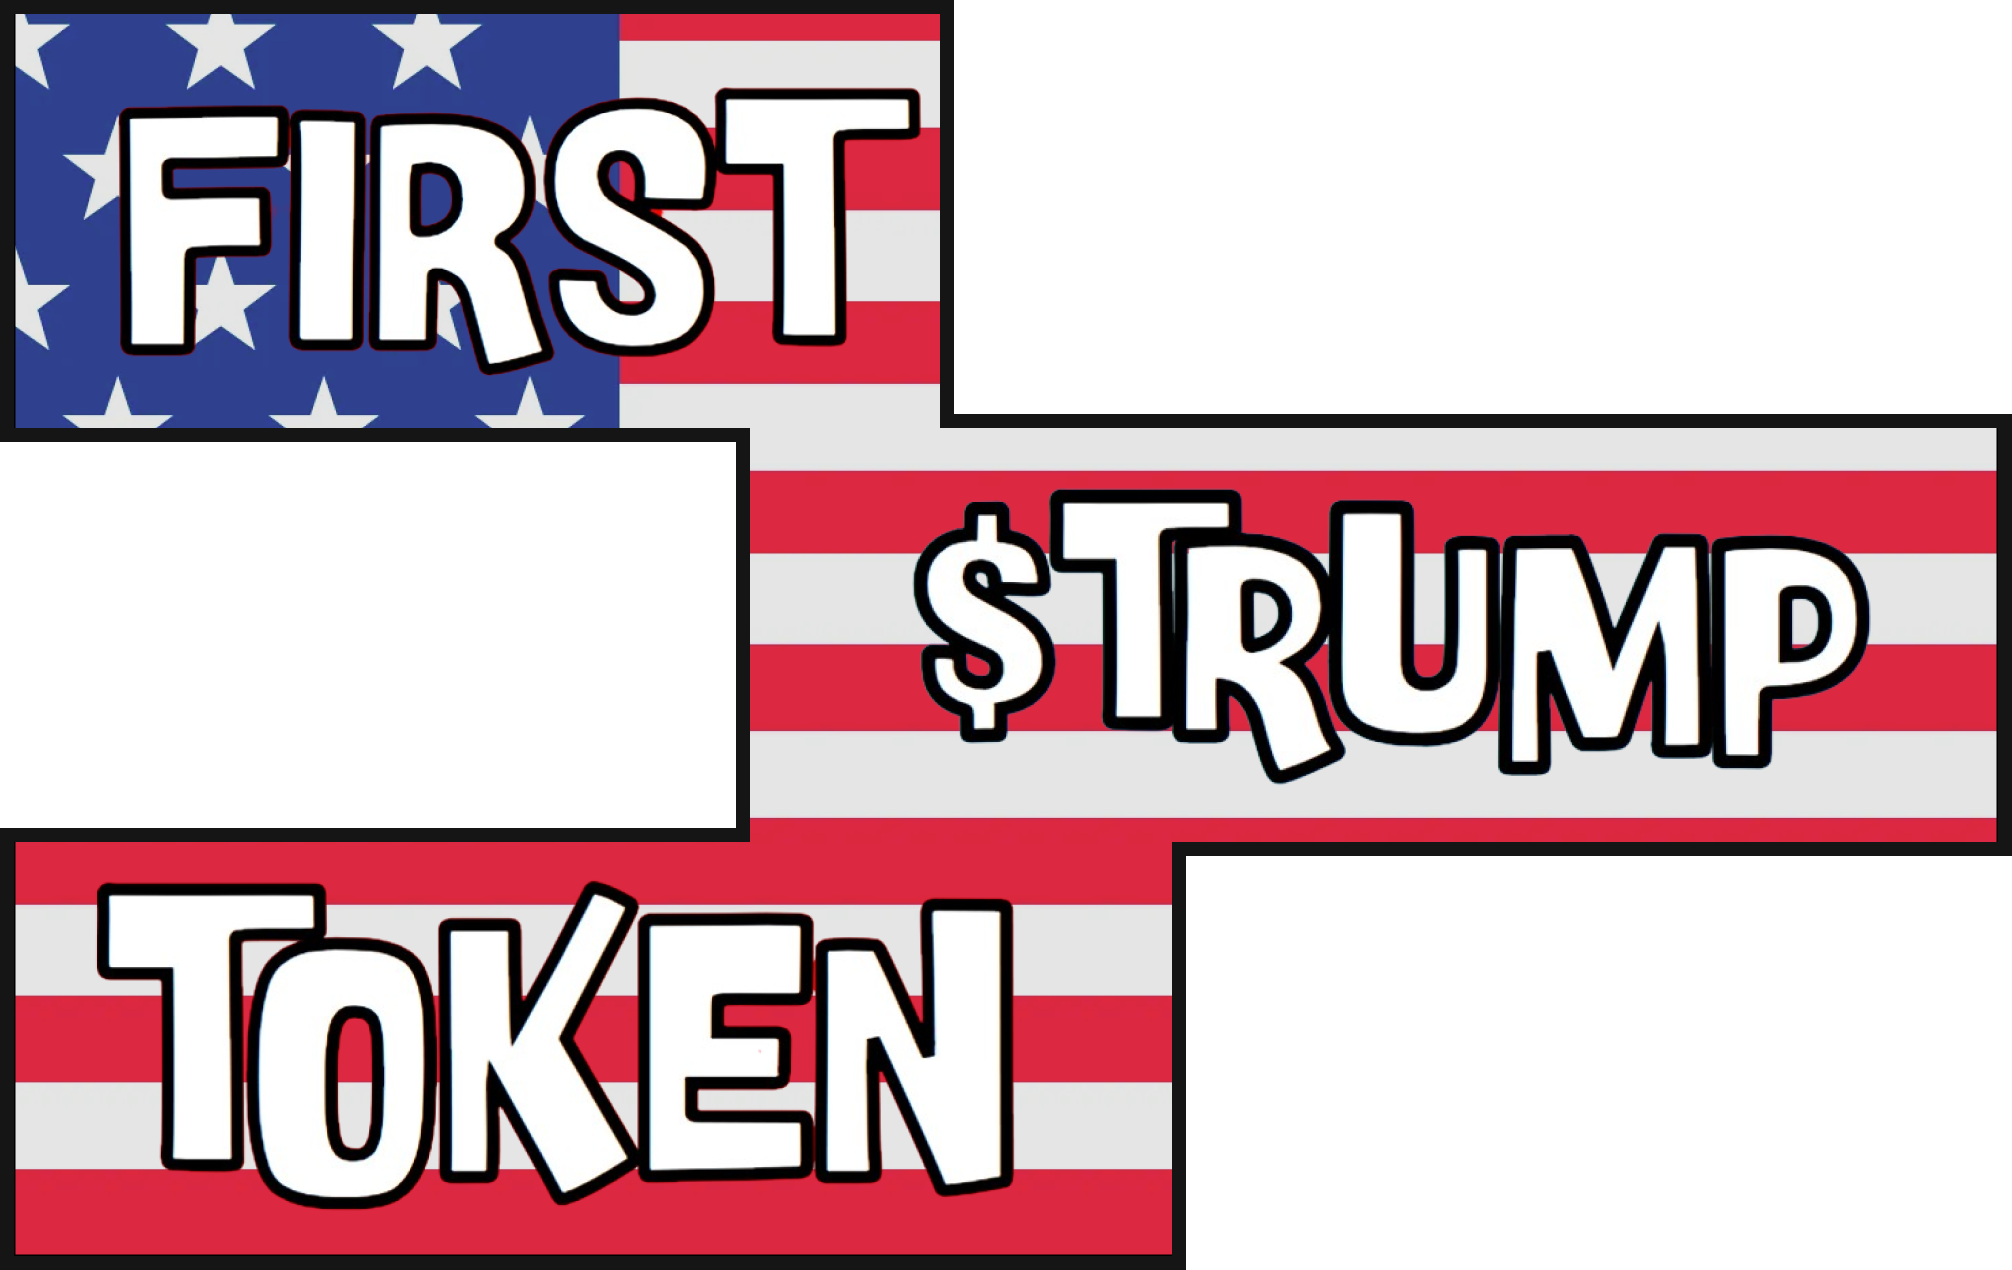
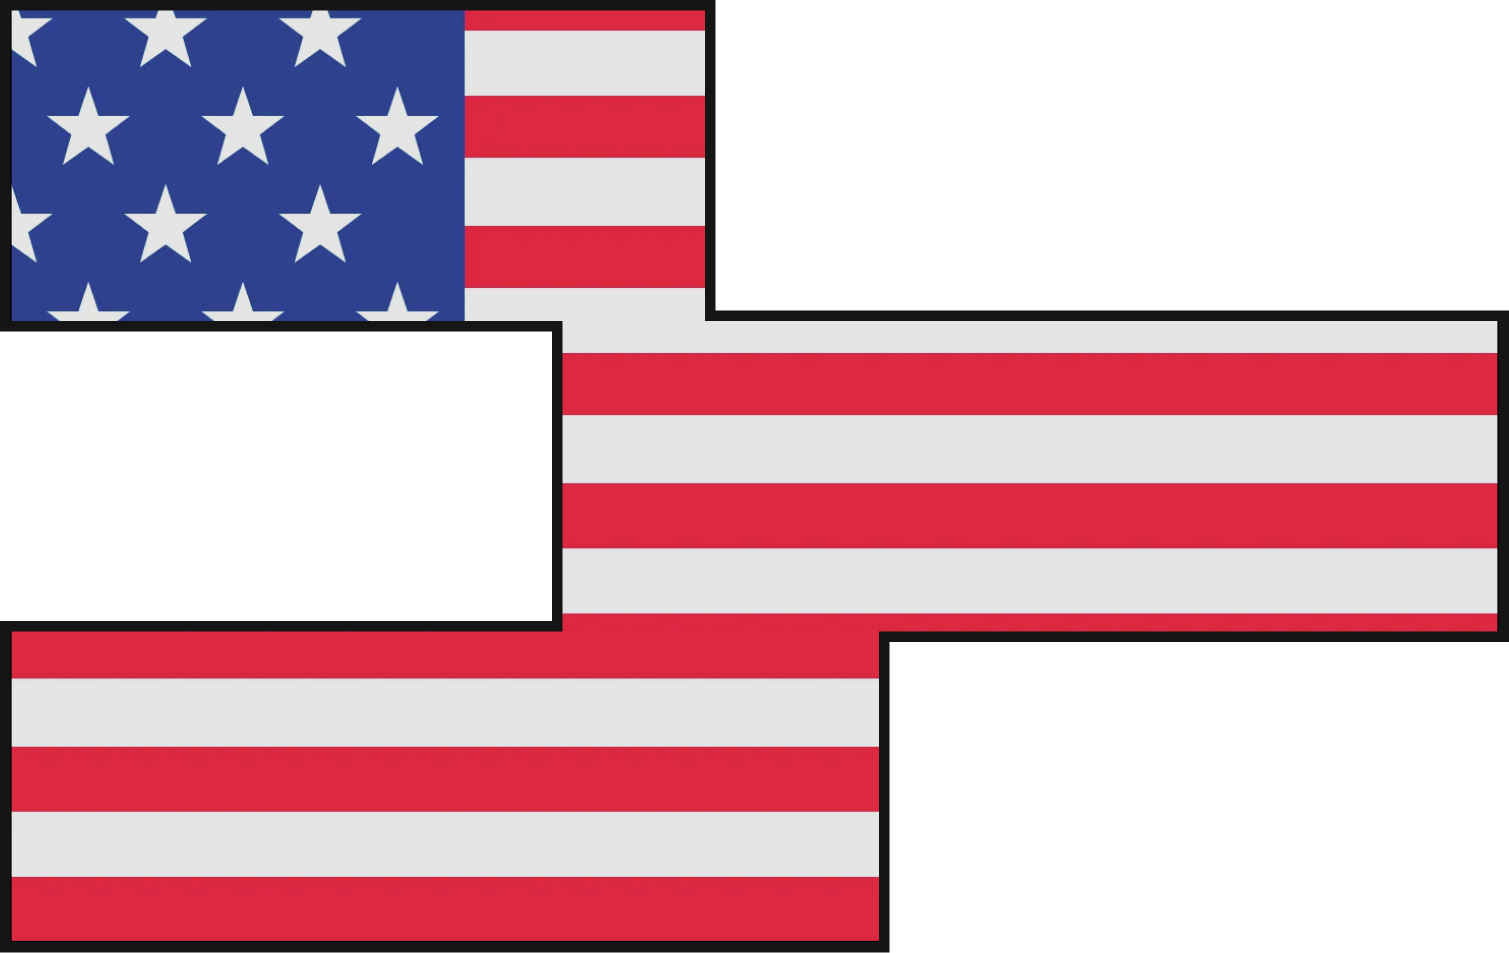
update

Changed region(s): [[0.0311, 0.6695, 0.5295, 0.9738], [0.4361, 0.3652, 0.9344, 0.639], [0.0311, 0.0609, 0.4672, 0.3043]]

diff --git a/index.html b/index.html
@@ -265,8 +265,9 @@
                         <div class="copied hidden absolute bg-[#1f921f] top-[-50px] h-[40px] w-[70px]  justify-center items-center ">
                             <span class="text-[.8rem] w-[95%] h-[90%] bg-green-500 flex justify-center items-center ink-free_font">copied</span>
                           </div>
-                          <input type="text" value=" 0x012....6e53" class="opacity-0 absolute contractInput">
-                        <p class="relative ca_text ink-free_font text-[15px] md:text-[20px] xl:text-[32px] min-[1700px]:text-[40px] z-[1]">Contract : 0x01....6e53</p>
+                          <input type="text" value=" 0000000000000000000000000" class="opacity-0 absolute contractInput">
+                        <p class="relative ca_text ink-free_font text-[15px] md:text-[20px] xl:text-[32px] min-[1700px]:text-[40px] z-[1]">Contract : 0x000000...dEaD
+                        </p>
                         <div class="icon ml-[.75rem] z-10">
                             <img src="./assets/images/copyIcon.svg" alt="" class="h-auto object-contain w-[20px] md:w-[25px] lg:w-[30px] min-[1700px]:w-[1vw]">
                         </div>
@@ -309,7 +310,7 @@
             <div class="bg_top content_about absolute  h-auto top-[62vw] xl:top-[40%] min-[1600px]:top-[45%] min-[2000px]:w-[50%] min-[2000px]:top-[53vw] z-[10] flex justify-center" data-aos="fade-up"
             data-aos-duration="1000"
             data-aos-delay="800">
-                <p class="text-white text-center tracking-[1px] w-[90%] md:w-[80%] xl:w-[985px] text-[19px] min-[500px]:text-[25px] md:text-[35px] xl:text-[40px]  min-[2500px]:w-[100%]  min-[2500px]:text-[2vw]">Yuge is the first Trump inspired cryptocurrency ever launched, has the first $TRUMP ticker ever used, and lives on the Ethereum blockchain. The token was deployed and launched on August 15th, 2020, predating any other Trump or Maga inspired tokens created, making it the oldest and most collectible Trump token in existence. Help us create a YUGE community so that we may make $TRUMP great again!</p>
+                <p class="text-white text-center tracking-[1px] w-[90%] md:w-[80%] xl:w-[985px] text-[19px] min-[500px]:text-[25px] md:text-[35px] xl:text-[40px]  min-[2500px]:w-[100%]  min-[2500px]:text-[2vw]">Yuge is the first Trump inspired cryptocurrency ever launched, has the first GOD BLESS AMERICA ticker ever used, and lives on the Ethereum blockchain. The token was deployed and launched on August 15th, 2020, predating any other Trump or Maga inspired tokens created, making it the oldest and most collectible Trump token in existence. Help us create a YUGE community so that we may make GOD BLESS AMERICA great again!</p>
  
             </div>
 
@@ -348,10 +349,24 @@
              data-aos-delay="200">
 
             <!-- text -->
-             <img src="./assets/images/og_text.png" alt="trump" class="h-auto object-contain absolute z-[9] w-[80%] bottom-[5%] og_image left-[10%]"  data-aos="fade-down"
-             data-aos-duration="1000"
-             data-aos-delay="0"
-             >
+           <div class="absolute z-[9] w-[80%] bottom-[5%] og_image left-[10%]" data-aos="fade-down"
+           data-aos-duration="1000"
+           data-aos-delay="0">
+            <img src="./assets/images/og_text.png" alt="trump" class="h-auto object-contain w-full relative" 
+            >
+
+            <div class="absolute w-full h-full z-10 text-white text-[50px] xl:text-[140px] min-[1500px]:text-[170px] min-[1900px]:text-[10vw] top-0 flex justify-center items-start flex-col about_stroke">
+               <div class="w-[50%] flex justify-center items-center">
+                <h2 class=" ">GOD </h2>
+               </div>
+               <div class="w-[80%] flex justify-end items-center  ">
+                <h2 class="">BLESS </h2>
+               </div>
+               <div class="w-[60%] flex justify-center items-center">
+                <h2 class=" ">AMERICA </h2>
+               </div>
+            </div>
+           </div>
 
          </section>
 
@@ -365,14 +380,14 @@
                     <div class="marquee bordered pb-[.7rem] marquee-left">
                         <div class="marquee-el" style="animation-duration: 75s;">
                             <p>
-                                <span>Buy $Trump</span>&nbsp;&nbsp;<span>Buy $Trump</span>&nbsp;&nbsp;<span>Buy $Trump</span>&nbsp;&nbsp;<span>Buy $Trump</span>&nbsp;&nbsp;<span>Buy $Trump</span>&nbsp;&nbsp;<span>Buy $Trump</span>&nbsp;&nbsp;<span>Buy $Trump</span>&nbsp;&nbsp;<span>Buy $Trump</span>&nbsp;&nbsp;<span>Buy $Trump</span>&nbsp;&nbsp;<span>Buy $Trump</span>&nbsp;&nbsp;<span>Buy $Trump</span>&nbsp;&nbsp;<span>Buy $Trump</span>&nbsp;&nbsp;<span>Buy $Trump</span>&nbsp;&nbsp;<span>Buy $Trump</span>&nbsp;&nbsp;<span>Buy $Trump</span>&nbsp;&nbsp;<span>Buy $Trump</span>&nbsp;&nbsp;<span>Buy $Trump</span>&nbsp;&nbsp;<span>Buy $Trump</span>&nbsp;&nbsp;
-                                <span>Buy $Trump</span>&nbsp;&nbsp;<span>Buy $Trump</span>&nbsp;&nbsp;<span>Buy $Trump</span>&nbsp;&nbsp;<span>Buy $Trump</span>&nbsp;&nbsp;<span>Buy $Trump</span>&nbsp;&nbsp;<span>Buy $Trump</span>&nbsp;&nbsp;<span>Buy $Trump</span>&nbsp;&nbsp;<span>Buy $Trump</span>&nbsp;&nbsp;<span>Buy $Trump</span>&nbsp;&nbsp;<span>Buy $Trump</span>&nbsp;&nbsp;<span>Buy $Trump</span>&nbsp;&nbsp;<span>Buy $Trump</span>&nbsp;&nbsp;<span>Buy $Trump</span>&nbsp;&nbsp;<span>Buy $Trump</span>&nbsp;&nbsp;<span>Buy $Trump</span>&nbsp;&nbsp;<span>Buy $Trump</span>&nbsp;&nbsp;<span>Buy $Trump</span>&nbsp;&nbsp;<span>Buy $Trump</span>&nbsp;&nbsp;
+                                <span>GOD BLESS AMERICA</span>&nbsp;&nbsp;<span>GOD BLESS AMERICA</span>&nbsp;&nbsp;<span>GOD BLESS AMERICA</span>&nbsp;&nbsp;<span>GOD BLESS AMERICA</span>&nbsp;&nbsp;<span>GOD BLESS AMERICA</span>&nbsp;&nbsp;<span>GOD BLESS AMERICA</span>&nbsp;&nbsp;<span>GOD BLESS AMERICA</span>&nbsp;&nbsp;<span>GOD BLESS AMERICA</span>&nbsp;&nbsp;<span>GOD BLESS AMERICA</span>&nbsp;&nbsp;<span>GOD BLESS AMERICA</span>&nbsp;&nbsp;<span>GOD BLESS AMERICA</span>&nbsp;&nbsp;<span>GOD BLESS AMERICA</span>&nbsp;&nbsp;<span>GOD BLESS AMERICA</span>&nbsp;&nbsp;<span>GOD BLESS AMERICA</span>&nbsp;&nbsp;<span>GOD BLESS AMERICA</span>&nbsp;&nbsp;<span>GOD BLESS AMERICA</span>&nbsp;&nbsp;<span>GOD BLESS AMERICA</span>&nbsp;&nbsp;<span>GOD BLESS AMERICA</span>&nbsp;&nbsp;
+                                <span>GOD BLESS AMERICA</span>&nbsp;&nbsp;<span>GOD BLESS AMERICA</span>&nbsp;&nbsp;<span>GOD BLESS AMERICA</span>&nbsp;&nbsp;<span>GOD BLESS AMERICA</span>&nbsp;&nbsp;<span>GOD BLESS AMERICA</span>&nbsp;&nbsp;<span>GOD BLESS AMERICA</span>&nbsp;&nbsp;<span>GOD BLESS AMERICA</span>&nbsp;&nbsp;<span>GOD BLESS AMERICA</span>&nbsp;&nbsp;<span>GOD BLESS AMERICA</span>&nbsp;&nbsp;<span>GOD BLESS AMERICA</span>&nbsp;&nbsp;<span>GOD BLESS AMERICA</span>&nbsp;&nbsp;<span>GOD BLESS AMERICA</span>&nbsp;&nbsp;<span>GOD BLESS AMERICA</span>&nbsp;&nbsp;<span>GOD BLESS AMERICA</span>&nbsp;&nbsp;<span>GOD BLESS AMERICA</span>&nbsp;&nbsp;<span>GOD BLESS AMERICA</span>&nbsp;&nbsp;<span>GOD BLESS AMERICA</span>&nbsp;&nbsp;<span>GOD BLESS AMERICA</span>&nbsp;&nbsp;
                             </p>
                         </div>
                         <div class="marquee-el" style="animation-duration: 75s;">
                             <p>
-                                <span>Buy $Trump</span>&nbsp;&nbsp;<span>Buy $Trump</span>&nbsp;&nbsp;<span>Buy $Trump</span>&nbsp;&nbsp;<span>Buy $Trump</span>&nbsp;&nbsp;<span>Buy $Trump</span>&nbsp;&nbsp;<span>Buy $Trump</span>&nbsp;&nbsp;<span>Buy $Trump</span>&nbsp;&nbsp;<span>Buy $Trump</span>&nbsp;&nbsp;<span>Buy $Trump</span>&nbsp;&nbsp;<span>Buy $Trump</span>&nbsp;&nbsp;<span>Buy $Trump</span>&nbsp;&nbsp;<span>Buy $Trump</span>&nbsp;&nbsp;<span>Buy $Trump</span>&nbsp;&nbsp;<span>Buy $Trump</span>&nbsp;&nbsp;<span>Buy $Trump</span>&nbsp;&nbsp;<span>Buy $Trump</span>&nbsp;&nbsp;<span>Buy $Trump</span>&nbsp;&nbsp;<span>Buy $Trump</span>&nbsp;&nbsp;
-                                <span>Buy $Trump</span>&nbsp;&nbsp;<span>Buy $Trump</span>&nbsp;&nbsp;<span>Buy $Trump</span>&nbsp;&nbsp;<span>Buy $Trump</span>&nbsp;&nbsp;<span>Buy $Trump</span>&nbsp;&nbsp;<span>Buy $Trump</span>&nbsp;&nbsp;<span>Buy $Trump</span>&nbsp;&nbsp;<span>Buy $Trump</span>&nbsp;&nbsp;<span>Buy $Trump</span>&nbsp;&nbsp;<span>Buy $Trump</span>&nbsp;&nbsp;<span>Buy $Trump</span>&nbsp;&nbsp;<span>Buy $Trump</span>&nbsp;&nbsp;<span>Buy $Trump</span>&nbsp;&nbsp;<span>Buy $Trump</span>&nbsp;&nbsp;<span>Buy $Trump</span>&nbsp;&nbsp;<span>Buy $Trump</span>&nbsp;&nbsp;<span>Buy $Trump</span>&nbsp;&nbsp;<span>Buy $Trump</span>&nbsp;&nbsp;
+                                <span>GOD BLESS AMERICA</span>&nbsp;&nbsp;<span>GOD BLESS AMERICA</span>&nbsp;&nbsp;<span>GOD BLESS AMERICA</span>&nbsp;&nbsp;<span>GOD BLESS AMERICA</span>&nbsp;&nbsp;<span>GOD BLESS AMERICA</span>&nbsp;&nbsp;<span>GOD BLESS AMERICA</span>&nbsp;&nbsp;<span>GOD BLESS AMERICA</span>&nbsp;&nbsp;<span>GOD BLESS AMERICA</span>&nbsp;&nbsp;<span>GOD BLESS AMERICA</span>&nbsp;&nbsp;<span>GOD BLESS AMERICA</span>&nbsp;&nbsp;<span>GOD BLESS AMERICA</span>&nbsp;&nbsp;<span>GOD BLESS AMERICA</span>&nbsp;&nbsp;<span>GOD BLESS AMERICA</span>&nbsp;&nbsp;<span>GOD BLESS AMERICA</span>&nbsp;&nbsp;<span>GOD BLESS AMERICA</span>&nbsp;&nbsp;<span>GOD BLESS AMERICA</span>&nbsp;&nbsp;<span>GOD BLESS AMERICA</span>&nbsp;&nbsp;<span>GOD BLESS AMERICA</span>&nbsp;&nbsp;
+                                <span>GOD BLESS AMERICA</span>&nbsp;&nbsp;<span>GOD BLESS AMERICA</span>&nbsp;&nbsp;<span>GOD BLESS AMERICA</span>&nbsp;&nbsp;<span>GOD BLESS AMERICA</span>&nbsp;&nbsp;<span>GOD BLESS AMERICA</span>&nbsp;&nbsp;<span>GOD BLESS AMERICA</span>&nbsp;&nbsp;<span>GOD BLESS AMERICA</span>&nbsp;&nbsp;<span>GOD BLESS AMERICA</span>&nbsp;&nbsp;<span>GOD BLESS AMERICA</span>&nbsp;&nbsp;<span>GOD BLESS AMERICA</span>&nbsp;&nbsp;<span>GOD BLESS AMERICA</span>&nbsp;&nbsp;<span>GOD BLESS AMERICA</span>&nbsp;&nbsp;<span>GOD BLESS AMERICA</span>&nbsp;&nbsp;<span>GOD BLESS AMERICA</span>&nbsp;&nbsp;<span>GOD BLESS AMERICA</span>&nbsp;&nbsp;<span>GOD BLESS AMERICA</span>&nbsp;&nbsp;<span>GOD BLESS AMERICA</span>&nbsp;&nbsp;<span>GOD BLESS AMERICA</span>&nbsp;&nbsp;
                             </p>
                         </div>
                     </div>

diff --git a/assets/css/style.css b/assets/css/style.css
@@ -412,39 +412,7 @@ nav ul li:hover a{
 .menu-button.active span:nth-child(3){
     margin-top: 0rem;
 }
-
-/* .menu-button span:nth-child(1) {
-    top: 0;
-}
  
-
-.menu-button span:nth-child(3) {
-    bottom: 0;
-}
-
-.menu-button.active span:nth-child(1) {
-    transform: rotate(45deg);
-    top: 1rem;
-}
-
-.menu-button.active span:nth-child(2) {
-    width: 0%;
-}
-
-.menu-button.active span:nth-child(3) {
-    transform: rotate(-45deg);
-    bottom: .7rem;
-}
- */
-
- 
-/* .menu-button span{
-    background-color: white;
-    border: .75px solid rgba(0, 0, 0, 0.527);
-    border-radius: 10px;
-    height: 4px;
-} */
-
 
 
 /* links */
@@ -576,6 +544,11 @@ nav ul::after{
   }
   }
 
+  /* about */
+.about_stroke{  
+    -webkit-text-stroke: 5px rgb(0, 0, 0); 
+}
+
 /* footer section */
 .footer{
     background: linear-gradient(180deg, #4C95B9 0%, #C3F9FF 100%);
@@ -654,6 +627,9 @@ footer .social:hover  .icon{
         -webkit-text-stroke: .9px black;
     }
      
+    .about_stroke{  
+        -webkit-text-stroke: .5vw rgb(0, 0, 0); 
+    }
     /* footer */
     footer .box_animation p{
         -webkit-text-stroke: 1.5px black;
